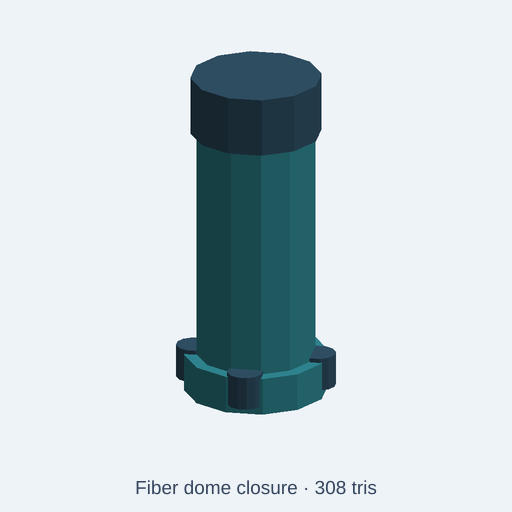
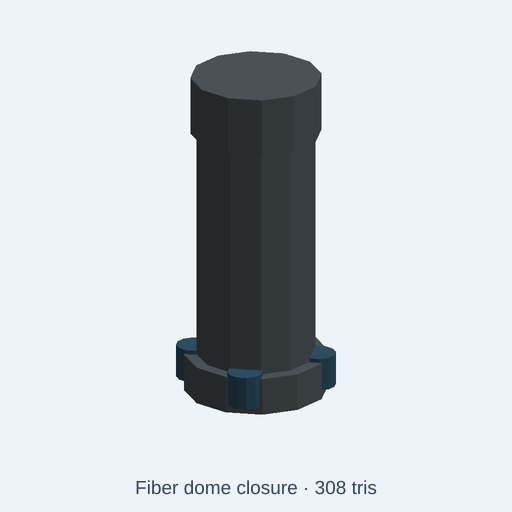
wip(assets): round 24 [claude]
Auto-committed by run-codex-lane.sh so a dying loop can never lose work
again. Squash or amend before review.

Changed region(s): [[0.3438, 0.2812, 0.6562, 0.8125], [0.375, 0.0938, 0.625, 0.2188]]

diff --git a/tests/integration/catalog/fiberDomeClosureShellMaterial.test.ts b/tests/integration/catalog/fiberDomeClosureShellMaterial.test.ts
@@ -1,0 +1,62 @@
+// SPDX-License-Identifier: MIT
+// Copyright (c) 2026 Andrii Shylenko and kernelCAD contributors
+
+import { resolve } from 'node:path';
+import { NodeIO } from '@gltf-transform/core';
+import { beforeAll, describe, expect, it } from 'vitest';
+import { buildCatalogAssetWithGlb } from '../../../src/agent/catalog/buildCatalog';
+import { initOcct } from '../../../src/kernel/backends/occt/occtBackend';
+
+const repoRoot = resolve(import.meta.dirname, '../../..');
+const source = 'catalog/kits/telecom-infrastructure/fiber-dome-closure.kcad.ts';
+
+beforeAll(async () => {
+  await initOcct();
+}, 120_000);
+
+describe('telecom-infrastructure/fiber-dome-closure materials', () => {
+  it('renders the dome housing as moulded thermoplastic, not powder-coated steel', async () => {
+    const { asset, glb } = await buildCatalogAssetWithGlb(repoRoot, source);
+
+    expect(asset.stats.triangles).toBeLessThanOrEqual(asset.triangleBudget);
+    expect(asset.params.filter((param) => param.type === 'color').map((param) => param.name)).toEqual([
+      'closureShell', 'polymer',
+    ]);
+    expect(Object.keys(asset.presets)).toEqual(['fieldSite', 'highVisibility']);
+
+    const document = await new NodeIO().readBinary(glb);
+    const nodes = document.getRoot().listNodes();
+    const colorsFor = (name: string) => {
+      const node = nodes.find((candidate) => candidate.getName() === name);
+      return node?.getMesh()?.listPrimitives().flatMap((primitive) => {
+        const vertexColors = primitive.getAttribute('COLOR_0');
+        if (vertexColors !== null) {
+          return Array.from({ length: vertexColors.getCount() }, (_, index) => {
+            const color = vertexColors.getElement(index, []);
+            return color.slice(0, 3).map((channel) =>
+              channel <= 0.0031308 ? 12.92 * channel : 1.055 * channel ** (1 / 2.4) - 0.055,
+            );
+          });
+        }
+        const material = primitive.getMaterial();
+        return material === null ? [] : [material.getBaseColorFactor().slice(0, 3)];
+      }) ?? [];
+    };
+    const matches = (hex: string) => {
+      const expected = [1, 3, 5].map((shift) => parseInt(hex.slice(shift, shift + 2), 16) / 255);
+      return (color: number[]) => expected.every((channel, index) =>
+        Math.abs(channel - color[index]!) < 0.015,
+      );
+    };
+
+    for (const name of ['base', 'body', 'dome']) {
+      const colors = colorsFor(name);
+      expect(colors.length, name).toBeGreaterThan(0);
+      expect(colors.every(matches('#4f585c')), `${name} should be thermoplastic closure shell`).toBe(true);
+      expect(colors.some(matches('#318b96')), `${name} must not be powder-coated steel`).toBe(false);
+    }
+    const port = colorsFor('port-a');
+    expect(port.length).toBeGreaterThan(0);
+    expect(port.every(matches('#315267')), 'cable port should stay engineering polymer').toBe(true);
+  }, 120_000);
+});

diff --git a/catalog/kits/telecom-infrastructure/fiber-dome-closure.kcad.ts b/catalog/kits/telecom-infrastructure/fiber-dome-closure.kcad.ts
@@ -1,11 +1,13 @@
 // SPDX-License-Identifier: CC0-1.0
-// Fiber dome closure: Vertical dome splice enclosure with a domed-looking cap, lower collar and four cable ports with clearly separated telecom materials and visible component cues.
+// Fiber dome closure: Vertical dome splice enclosure with a domed-looking cap, lower collar and four cable ports.
+// The dome, its cap and the port base are one moulded thermoplastic housing; only the
+// cable ports and their jackets take the darker engineering polymer.
 
 meta({
   name: "fiber-dome-closure",
   license: 'CC0-1.0',
   title: "Fiber dome closure",
-  description: "Vertical dome splice enclosure with a domed-looking cap, lower collar and four cable ports. Knobs: overall scale; engineering polymer and cable jacket, powder-coated steel.",
+  description: "Vertical dome splice enclosure with a domed-looking cap, lower collar and four cable ports. Knobs: overall scale; moulded thermoplastic closure shell, engineering polymer and cable jacket.",
   tags: ['telecom', 'network', 'communications', 'infrastructure', 'low poly'],
   kit: 'telecom-infrastructure',
   category: 'prop',
@@ -16,25 +18,25 @@ meta({
 
 const scale = param('scale', 1, { min: 0.7, max: 1.3, step: 0.05, label: 'Overall scale' });
 
+const closureShell = param('closureShell', '#4f585c', { label: 'Closure shell (moulded thermoplastic)' });
 const polymer = param('polymer', '#315267', { label: 'Engineering polymer and cable jacket' });
-const powderCoat = param('powderCoat', '#318b96', { label: 'Powder-coated steel' });
 presets({
   fieldSite: {
+    closureShell: '#3a4245',
     polymer: '#263a37',
-    powderCoat: '#52756b',
   },
   highVisibility: {
+    closureShell: '#e0aa18',
     polymer: '#27363c',
-    powderCoat: '#e0aa18',
   },
 });
 
 const c = (x: number, y: number, z: number, h: number, r: number, n = 8) => cylinder(h, r, n).translate(x, y, z).scale(scale);
 
 const p = assembly("fiber-dome-closure");
-p.part("base", c(0, 0, 0, 90, 170, 8).color(powderCoat));
-p.part("body", c(0, 0, 90, 560, 140, 8).color(powderCoat));
-p.part("dome", c(0, 0, 650, 140, 155, 8).color(polymer));
+p.part("base", c(0, 0, 0, 90, 170, 8).color(closureShell));
+p.part("body", c(0, 0, 90, 560, 140, 8).color(closureShell));
+p.part("dome", c(0, 0, 650, 140, 155, 8).color(closureShell));
 p.part("port-a", c(-105, -105, 20, 80, 42, 8).color(polymer));
 p.part("port-b", c(105, -105, 20, 80, 42, 8).color(polymer));
 p.part("port-c", c(-105, 105, 20, 80, 42, 8).color(polymer));
